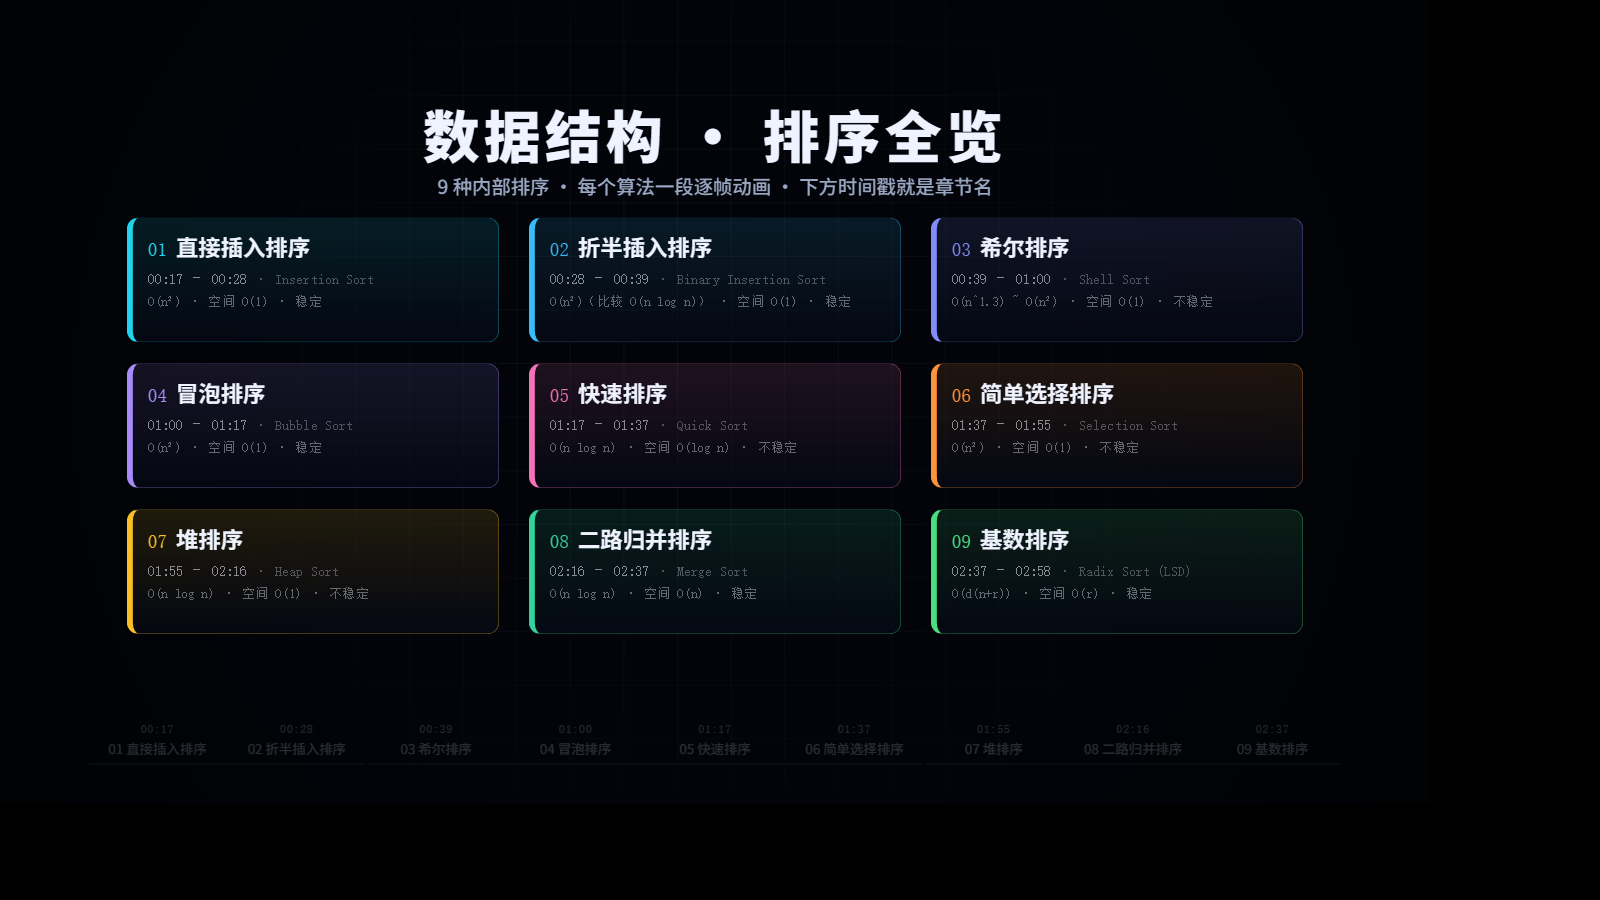
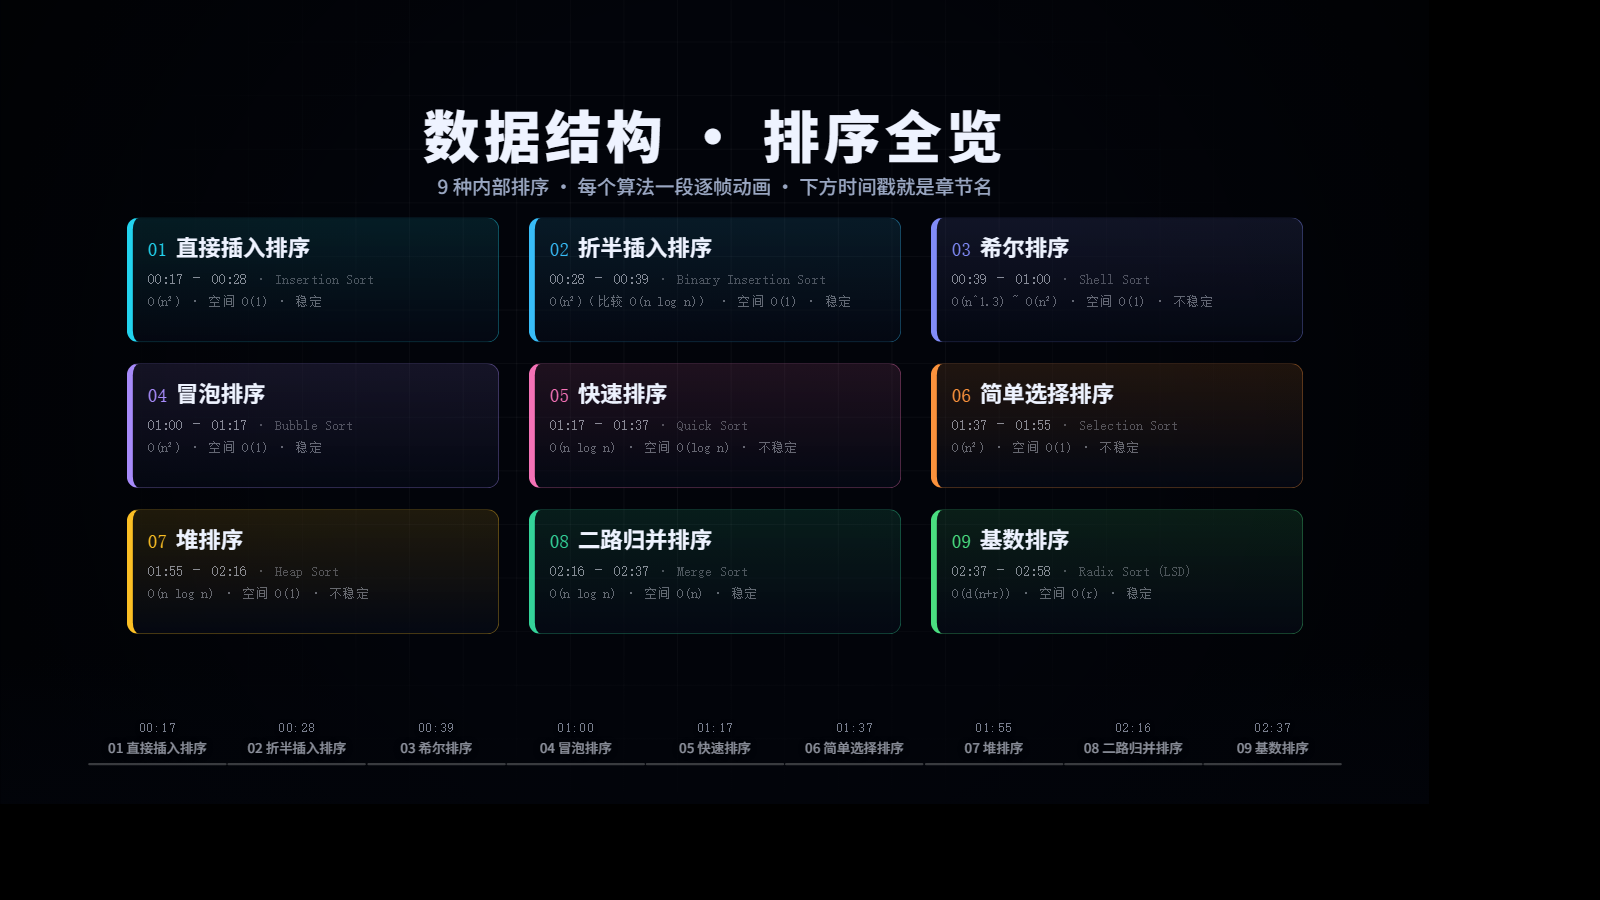
feat: 底部时间戳条加深对比度 + 网页版可点击跳转
- ChapterBar：未到/已过的章节不再浅到看不见（0.7/0.9 不透明度），底部加渐变压暗层，文字加投影
- web/App.tsx：在画面里那条时间戳条的同一位置叠一层透明按钮（位置/宽度按 1920×1080 同一套比例算），点哪个排序就 seek 到那一段起始帧；显示区间与烧进画面的那条一致（含目录镜头）
- 用 CDP 真实点击验证：第 4/8/0 个分别跳到 4660（快速 1:17）/ 9420（基数 2:37）/ 1020（插入 0:17），全部命中
- 截图更新

diff --git a/web/App.tsx b/web/App.tsx
@@ -2,7 +2,7 @@ import React, {useEffect, useRef, useState} from 'react';
 import {Player, type PlayerRef} from '@remotion/player';
 import {FONT_FILES} from '../src/fonts';
 import {Main} from '../src/Main';
-import {ACT_RANGES, TOTAL} from '../src/timeline';
+import {ACT_RANGES, SORT_CHAPTERS, SORT_RANGE, TOTAL} from '../src/timeline';
 
 const FPS = 60;
 const BASE = import.meta.env.BASE_URL;
@@ -51,11 +51,73 @@ const Btn: React.FC<{onClick: () => void; children: React.ReactNode; color?: str
   </button>
 );
 
+/**
+ * 叠在画面底部「时间戳条」上的透明按钮层。
+ *
+ * 时间戳条本身是烧进视频的（渲染成片里也有，静态信息）；
+ * 这里让它在**网页实时版**上可以点击跳转 —— 位置/宽度/间距都按 1920×1080 里
+ * 同一套比例算，所以和画面里那条严丝合缝地重合，按钮本身是全透明的。
+ */
+const ChapterStrip: React.FC<{active: number; onSeek: (frame: number) => void}> = ({active, onSeek}) => {
+  const [hover, setHover] = useState<number | null>(null);
+  return (
+    <div style={{position: 'absolute', inset: 0, pointerEvents: 'none'}}>
+      <div
+        style={{
+          position: 'absolute',
+          left: '6.1458%' /* 118 / 1920 */,
+          right: '6.1458%',
+          bottom: '4.8148%' /* 52 / 1080 */,
+          display: 'flex',
+          justifyContent: 'space-between',
+          alignItems: 'flex-end',
+        }}
+      >
+        {SORT_CHAPTERS.map((c, i) => (
+          <button
+            key={c.key}
+            type="button"
+            data-chapter={i}
+            data-start={c.start}
+            title={`跳到 ${c.name}（${fmt(c.start)}）`}
+            onClick={(e) => {
+              e.stopPropagation();
+              onSeek(c.start);
+            }}
+            onMouseEnter={() => setHover(i)}
+            onMouseLeave={() => setHover(null)}
+            style={{
+              pointerEvents: 'auto',
+              width: '9.6875%' /* 186 / 1920 */,
+              height: '5.8%',
+              minHeight: 36,
+              padding: 0,
+              border: 'none',
+              borderRadius: 8,
+              cursor: 'pointer',
+              // 只在鼠标悬停时给一点提示；「当前章节」的高亮交给画面里烧进去的那条，避免两条线错位
+              background: hover === i ? 'rgba(255,255,255,0.10)' : 'transparent',
+              boxShadow: hover === i ? `inset 0 0 0 1px ${c.color}88` : 'none',
+              transition: 'background 120ms',
+            }}
+          />
+        ))}
+      </div>
+    </div>
+  );
+};
+
 const App: React.FC = () => {
   const ref = useRef<PlayerRef>(null);
   const [frame, setFrame] = useState(FRAME0);
   const [mute, setMute] = useState(false);
   const [playing, setPlaying] = useState(false);
+  // 当前处在第几个排序列（-1 = 不在某个算法那一段里）
+  const [chapter, setChapter] = useState(() =>
+    SORT_CHAPTERS.findIndex((c) => FRAME0 >= c.start && FRAME0 < c.end),
+  );
+  // 是否处在「排序段落」——与画面里那条烧进去的时间戳条同一个显示区间
+  const [showStrip, setShowStrip] = useState(() => FRAME0 >= SORT_RANGE.from && FRAME0 <= SORT_RANGE.to);
 
   // 字体异步加载，不阻塞首屏；没下完先用系统字体顶（public 里没有字体时静默跳过）
   useEffect(() => {
@@ -79,15 +141,14 @@ const App: React.FC = () => {
     if (!p) return;
     const onPlay = () => setPlaying(true);
     const onPause = () => setPlaying(false);
-    if (!UI) {
-      p.addEventListener('play', onPlay);
-      p.addEventListener('pause', onPause);
-      return () => {
-        p.removeEventListener('play', onPlay);
-        p.removeEventListener('pause', onPause);
-      };
-    }
-    const onFrame = ({detail}: {detail: {frame: number}}) => setFrame(detail.frame);
+    const onFrame = ({detail}: {detail: {frame: number}}) => {
+      if (UI) setFrame(detail.frame);
+      // 只在「状态真的变了」时 setState，避免每帧重渲染整个页面
+      const idx = SORT_CHAPTERS.findIndex((c) => detail.frame >= c.start && detail.frame < c.end);
+      setChapter((prev) => (prev === idx ? prev : idx));
+      const inRange = detail.frame >= SORT_RANGE.from && detail.frame <= SORT_RANGE.to;
+      setShowStrip((prev) => (prev === inRange ? prev : inRange));
+    };
     p.addEventListener('play', onPlay);
     p.addEventListener('pause', onPause);
     p.addEventListener('frameupdate', onFrame);
@@ -99,21 +160,25 @@ const App: React.FC = () => {
   }, []);
 
   const player = (
-    <Player
-      ref={ref}
-      component={Main}
-      inputProps={{musicSrc: `${BASE}music.mp3`, mute, hud: HUD}}
-      durationInFrames={TOTAL}
-      fps={FPS}
-      compositionWidth={1920}
-      compositionHeight={1080}
-      initialFrame={FRAME0}
-      controls={UI}
-      loop
-      clickToPlay
-      acknowledgeRemotionLicense
-      style={UI ? {width: '100%'} : {width: 'min(100vw, 177.78vh)'}}
-    />
+    <div style={{position: 'relative', width: UI ? '100%' : 'min(100vw, 177.78vh)'}}>
+      <Player
+        ref={ref}
+        component={Main}
+        inputProps={{musicSrc: `${BASE}music.mp3`, mute, hud: HUD}}
+        durationInFrames={TOTAL}
+        fps={FPS}
+        compositionWidth={1920}
+        compositionHeight={1080}
+        initialFrame={FRAME0}
+        controls={UI}
+        loop
+        clickToPlay
+        acknowledgeRemotionLicense
+        style={{width: '100%'}}
+      />
+      {/* 画面底部时间戳条的可点击层：与烧进画面的那条同区间显示，点击 seek 到该章节起始帧 */}
+      {showStrip ? <ChapterStrip active={chapter} onSeek={(f) => ref.current?.seekTo(f)} /> : null}
+    </div>
   );
 
   // 默认模式：只有画面。点一下播放，空格暂停/继续，双击全屏。

diff --git a/src/components/ChapterBar.tsx b/src/components/ChapterBar.tsx
@@ -12,6 +12,9 @@ const mmss = (frame: number) => {
 /**
  * 画面底部的时间戳条：**每个排序的名字 + 起始时间**，当前那一段高亮。
  * 挂在 Main 上覆盖所有镜头，只在排序段落里淡入淡出（不是网页 UI，是烧进视频的）。
+ *
+ * 网页实时版里 `web/App.tsx` 会在同一条的位置上叠一层透明按钮，点击跳转到对应章节；
+ * 渲染成片时它就只是一条静态信息（视频里当然点不了）。
  */
 export const ChapterBar: React.FC<{chapters: Chapter[]; from: number; to: number}> = ({chapters, from, to}) => {
   const f = useCurrentFrame();
@@ -20,6 +23,17 @@ export const ChapterBar: React.FC<{chapters: Chapter[]; from: number; to: number
 
   return (
     <AbsoluteFill style={{pointerEvents: 'none', opacity}}>
+      {/* 压暗底部，保证时间戳在任何画面上都读得清 */}
+      <div
+        style={{
+          position: 'absolute',
+          left: 0,
+          right: 0,
+          bottom: 0,
+          height: 200,
+          background: 'linear-gradient(180deg, rgba(2,4,10,0) 0%, rgba(2,4,10,0.55) 45%, rgba(2,4,10,0.85) 100%)',
+        }}
+      />
       <div
         style={{
           position: 'absolute',
@@ -34,15 +48,17 @@ export const ChapterBar: React.FC<{chapters: Chapter[]; from: number; to: number
         {chapters.map((c) => {
           const active = f >= c.start && f < c.end;
           const past = f >= c.end;
-          const o = active ? 1 : past ? 0.5 : 0.28;
+          // 未到 / 已过 的章节也保持足够对比度，不能「浅到看不见」
+          const dim = active ? 1 : past ? 0.9 : 0.7;
           return (
-            <div key={c.label} style={{width: 186, textAlign: 'center', opacity: o}}>
+            <div key={c.label} style={{width: 186, textAlign: 'center'}}>
               <div
                 style={{
                   fontFamily: FONT.mono,
-                  fontSize: 16,
-                  color: active ? c.color : rgba('#eef3ff', 0.5),
+                  fontSize: 17,
                   letterSpacing: 1,
+                  color: active ? c.color : rgba('#dce6ff', 0.78 * dim),
+                  textShadow: active ? `0 0 14px ${rgba(c.color, 0.7)}` : '0 1px 6px rgba(0,0,0,0.9)',
                 }}
               >
                 {mmss(c.start)}
@@ -51,10 +67,11 @@ export const ChapterBar: React.FC<{chapters: Chapter[]; from: number; to: number
                 style={{
                   fontFamily: FONT.sans,
                   fontSize: 18,
-                  marginTop: 4,
-                  color: active ? COL.text : rgba('#eef3ff', 0.62),
-                  fontWeight: active ? 700 : 400,
+                  marginTop: 5,
+                  fontWeight: active ? 700 : 500,
                   whiteSpace: 'nowrap',
+                  color: active ? COL.text : rgba('#e8eeff', 0.86 * dim),
+                  textShadow: '0 1px 8px rgba(0,0,0,0.95)',
                 }}
               >
                 {String(c.index).padStart(2, '0')} {c.label}
@@ -62,10 +79,10 @@ export const ChapterBar: React.FC<{chapters: Chapter[]; from: number; to: number
               <div
                 style={{
                   height: 3,
-                  marginTop: 7,
+                  marginTop: 8,
                   borderRadius: 3,
-                  background: active ? c.color : rgba('#ffffff', 0.12),
-                  boxShadow: active ? `0 0 14px ${rgba(c.color, 0.8)}` : undefined,
+                  background: active ? c.color : rgba('#ffffff', 0.22),
+                  boxShadow: active ? `0 0 14px ${rgba(c.color, 0.85)}` : undefined,
                 }}
               />
             </div>

diff --git a/README.md b/README.md
@@ -178,6 +178,7 @@ dist/                    web:build 产物（推到 gh-pages 的就是它）
 | `?frame=2200` | 深链：直接定位到第 N 帧 |
 
 - **章节跳转**：`playerRef.seekTo(ACT_RANGES[i].s)`，`?ui=1` 下那排按钮就是 `ACT_RANGES` 渲染出来的；
+- **底部时间戳条可以直接点**：画面里那条是烧进视频的（渲染成片里也有，静态信息），网页版在**同一位置**叠了一层透明按钮，点哪个排序就 seek 到那一段的起始帧——两者位置/宽度都按 1920×1080 的同一套比例算，严丝合缝；
 - **状态回读**：播放器用事件往外推状态（`play` / `pause` / `frameupdate`）——
   ⚠ `onFrameUpdate` 这类 prop 在新版 `@remotion/player` 里已经没有，要用 `addEventListener('frameupdate', …)`；
 - **字体**：`FontFace` 异步加载，不阻塞首屏；渲染端则用 `delayRender/continueRender` 等字体就绪。
